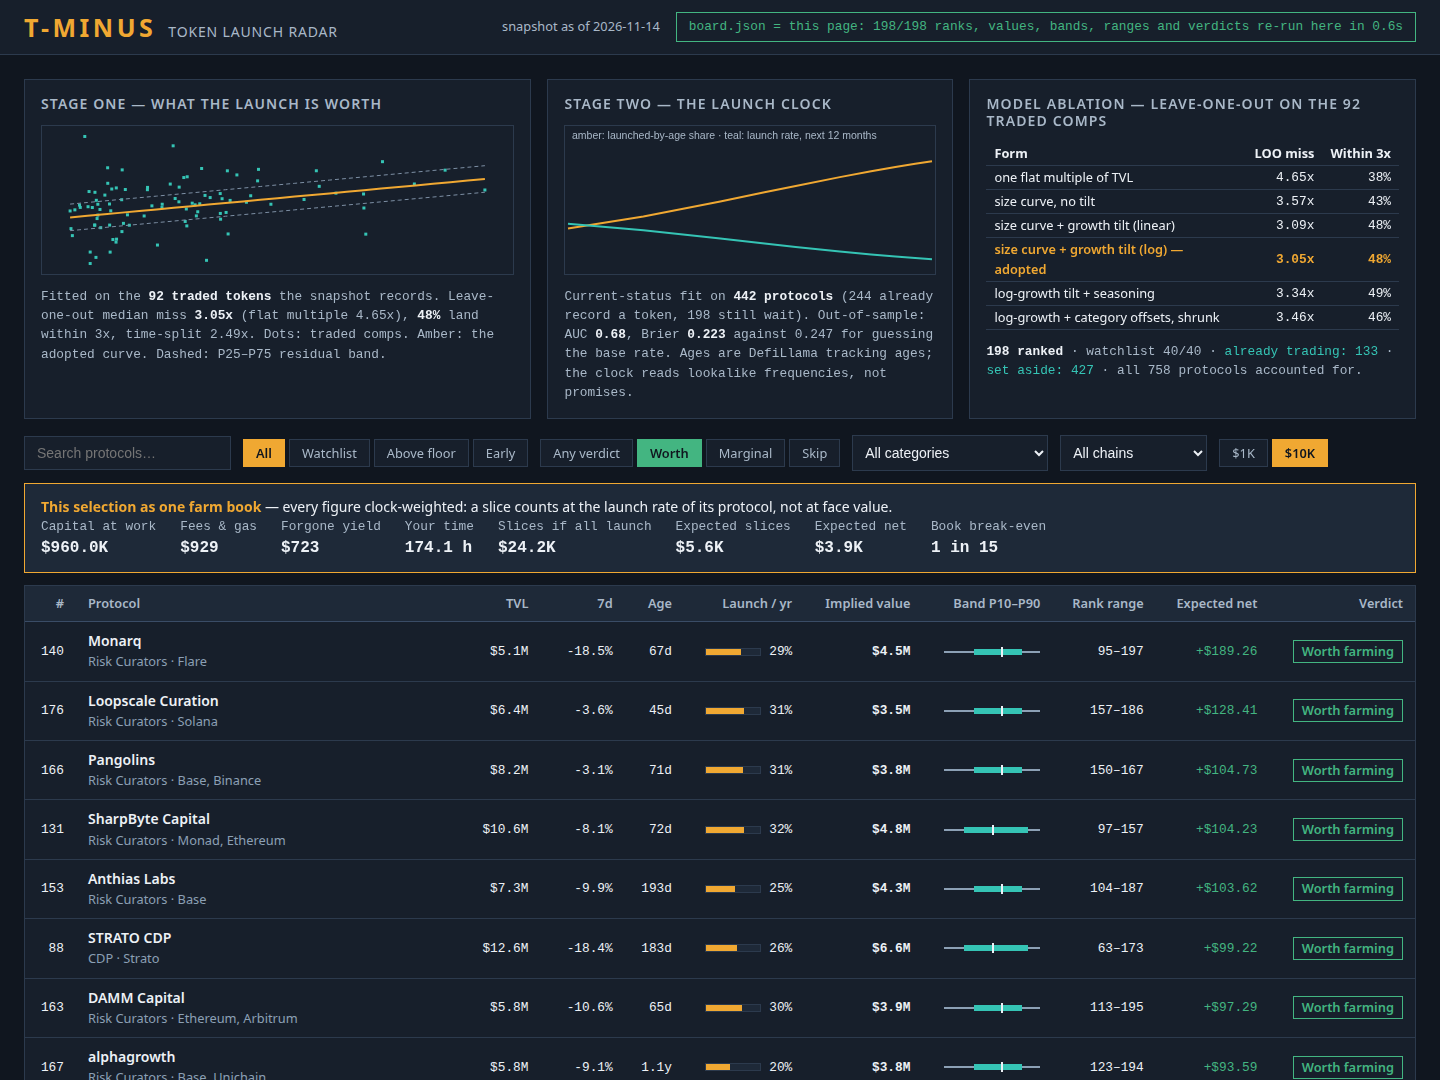
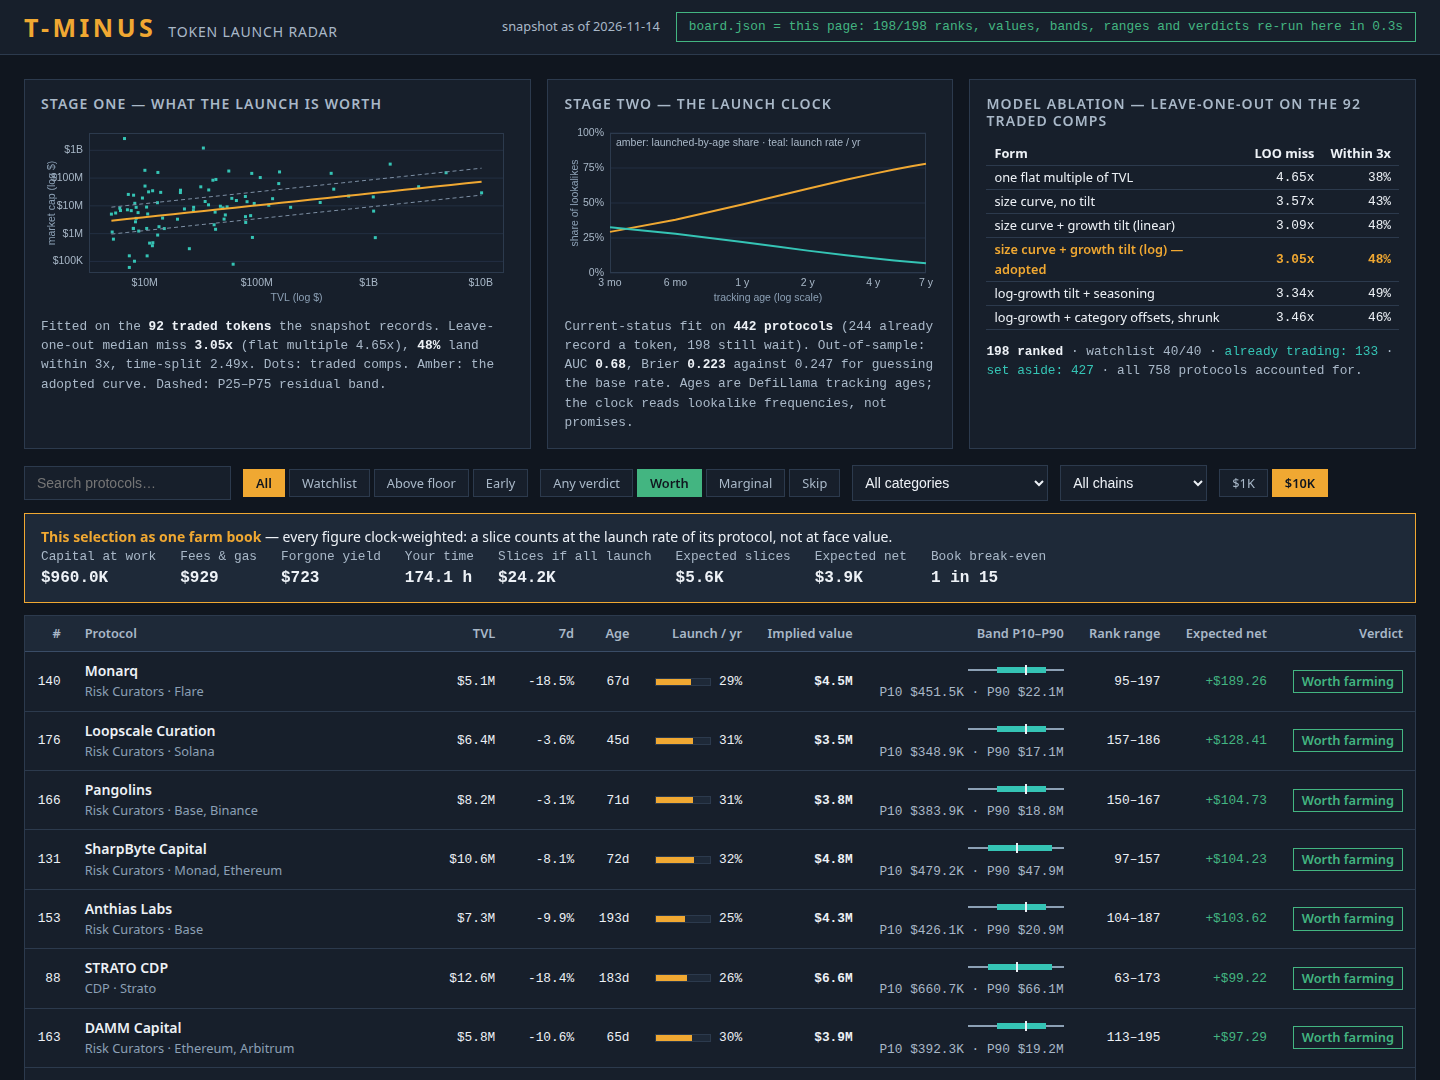
Legibility round: axes on both charts, numeric band values on the board
Criterion-5 fix only — no model, data or verdict changes:
- drawFit/drawClock: labelled axes (decade ticks in dollars and a rotated
  'market cap (log $)' title; percent ticks, age ticks 3mo-7y and a rotated
  'share of lookalikes' title), faint gridlines, taller canvases (180px).
- Board band cell: the P10-P90 glyph now carries printed 'P10 $x - P90 $y'
  values under it and a full-quartile title; hazard bar gains a title.
- CSS: .bandnums rule; pressed Skip chip takes dark text on salmon
  (2.8:1 -> 5.7:1). Every text pairing verified >= 4.5:1 numerically.
- Screenshots re-captured from the rebuilt page (chip 198/198).
board.json and data.js are byte-identical to the previous commit's build;
two runs of main.ts still write identical bytes; gate re-implementation
passes all rows.

diff --git a/dashboard/app.js b/dashboard/app.js
@@ -8,6 +8,7 @@ const $ = (id) => document.getElementById(id);
 const esc = (s) => String(s ?? '').replace(/[&<>"']/g, (c) => ({ '&': '&amp;', '<': '&lt;', '>': '&gt;', '"': '&quot;', "'": '&#39;' }[c]));
 const fmt$ = (v) => v >= 1e9 ? '$' + (v / 1e9).toFixed(2) + 'B' : v >= 1e6 ? '$' + (v / 1e6).toFixed(1) + 'M' : v >= 1e3 ? '$' + (v / 1e3).toFixed(1) + 'K' : '$' + Math.round(v);
 const fmtN = (v, d = 2) => (v < 0 ? '-' : '') + Math.abs(v).toFixed(d);
+const fmtDec = (logv) => { const v = 10 ** logv; return v >= 1e9 ? '$' + (v / 1e9) + 'B' : v >= 1e6 ? '$' + (v / 1e6) + 'M' : '$' + (v / 1e3) + 'K'; };
 
 /* ---------- the model, mirrored from lib/model.ts ---------- */
 const UNKNOWN_AGE = 365;
@@ -118,7 +119,7 @@ function filtered() {
 function bandGlyph(r) {
   const lo = Math.log10(r.band[0]), hi = Math.log10(r.band[3]), span = Math.max(hi - lo, 1e-9);
   const px = (v) => ((Math.log10(v) - lo) / span * 96).toFixed(1);
-  return `<span class="bandg"><span class="w" style="left:0;width:96px"></span><span class="b" style="left:${px(r.band[1])}px;width:${Math.max(2, px(r.band[2]) - px(r.band[1]))}px"></span><span class="m" style="left:${px(r.implied_value_usd)}px"></span></span>`;
+  return `<span class="bandg" title="P10 ${fmt$(r.band[0])} · P25 ${fmt$(r.band[1])} · P75 ${fmt$(r.band[2])} · P90 ${fmt$(r.band[3])}"><span class="w" style="left:0;width:96px"></span><span class="b" style="left:${px(r.band[1])}px;width:${Math.max(2, px(r.band[2]) - px(r.band[1]))}px"></span><span class="m" style="left:${px(r.implied_value_usd)}px"></span></span><span class="bandnums">P10 ${fmt$(r.band[0])} · P90 ${fmt$(r.band[3])}</span>`;
 }
 function renderBoard() {
   const rows = filtered(), dep = String(state.dep);
@@ -127,7 +128,7 @@ function renderBoard() {
     <td class="left"><a class="pname" href="#/p/${esc(r.slug)}">${esc(r.name)}</a><br><span class="psub">${esc(r.category ?? 'Uncategorised')} · ${esc(r.chains.slice(0, 2).join(', ') || '—')}${r.watchlist ? ' · watchlist' : ''}</span></td>
     <td>${fmt$(r.tvl_usd)}</td><td>${r.change_7d === null ? '—' : (r.change_7d >= 0 ? '+' : '') + r.change_7d.toFixed(1) + '%'}</td>
     <td>${r.age_days === null ? '—' : r.age_days >= 365 ? (r.age_days / 365).toFixed(1) + 'y' : r.age_days + 'd'}</td>
-    <td><span class="hzbar"><i style="width:${Math.min(100, r.clock.hazard12 * 220)}%"></i></span>${Math.round(r.clock.hazard12 * 100)}%</td>
+    <td><span class="hzbar" title="launch rate over the next 12 months, from the clock"><i style="width:${Math.min(100, r.clock.hazard12 * 220)}%"></i></span>${Math.round(r.clock.hazard12 * 100)}%</td>
     <td><b>${fmt$(r.implied_value_usd)}</b></td><td>${bandGlyph(r)}</td>
     <td>${r.rank_range[0]}–${r.rank_range[1]}</td>
     <td class="${e.expected_net >= 0 ? 'pos' : 'neg'}">${e.expected_net >= 0 ? '+' : '−'}$${fmtN(Math.abs(e.expected_net))}</td>
@@ -144,25 +145,45 @@ function renderBoard() {
   } else fb.hidden = true;
 }
 function drawFit() {
-  const cv = $('fitChart'), dpr = Math.min(2, window.devicePixelRatio || 1), W = cv.clientWidth, H = 150;
+  const cv = $('fitChart'), dpr = Math.min(2, window.devicePixelRatio || 1), W = cv.clientWidth, H = 180;
   cv.width = W * dpr; cv.height = H * dpr; const g = cv.getContext('2d'); g.scale(dpr, dpr);
   const sc = T.validation.scatter, xs = sc.comps.map(p => p[0]), ys = sc.comps.map(p => p[1]);
   const x0 = Math.min(...xs) - .2, x1 = Math.max(...xs) + .2, y0 = Math.min(...ys) - .2, y1 = Math.max(...ys) + .2;
-  const X = (v) => (v - x0) / (x1 - x0) * (W - 8) + 4, Y = (v) => H - 6 - (v - y0) / (y1 - y0) * (H - 12);
-  g.strokeStyle = '#2C3A4D'; g.strokeRect(0.5, 0.5, W - 1, H - 1);
+  // axes first: faint gridlines and labelled decade ticks on both log scales,
+  // so the plot reads on its own — market cap against TVL, in dollars.
+  const L = 48, R = 10, Tp = 8, B = 32, pw = W - L - R, ph = H - Tp - B;
+  const X = (v) => L + (v - x0) / (x1 - x0) * pw, Y = (v) => Tp + ph - (v - y0) / (y1 - y0) * ph;
+  g.font = '10.5px sans-serif';
+  g.strokeStyle = '#232F42'; g.fillStyle = '#A9B8C8'; g.textAlign = 'right'; g.textBaseline = 'middle';
+  for (let d = Math.ceil(y0); d <= Math.floor(y1); d++) { const y = Y(d); g.beginPath(); g.moveTo(L, y); g.lineTo(W - R, y); g.stroke(); g.fillText(fmtDec(d), L - 6, y); }
+  g.textAlign = 'center'; g.textBaseline = 'top';
+  for (let d = Math.ceil(x0); d <= Math.floor(x1); d++) g.fillText(fmtDec(d), X(d), Tp + ph + 5);
+  g.strokeStyle = '#2C3A4D'; g.strokeRect(L + .5, Tp + .5, pw - 1, ph - 1);
   g.fillStyle = '#35C4B5'; for (const [x, y] of sc.comps) { g.fillRect(X(x) - 1.5, Y(y) - 1.5, 3, 3); }
   g.strokeStyle = '#7E90A5'; g.setLineDash([4, 3]); g.beginPath(); sc.band.forEach(([x, , hi], i) => i ? g.lineTo(X(x), Y(hi)) : g.moveTo(X(x), Y(hi))); g.stroke();
   g.beginPath(); sc.band.forEach(([x, lo], i) => i ? g.lineTo(X(x), Y(lo)) : g.moveTo(X(x), Y(lo))); g.stroke(); g.setLineDash([]);
   g.strokeStyle = '#F0A832'; g.lineWidth = 2; g.beginPath(); sc.curve.forEach(([x, y], i) => i ? g.lineTo(X(x), Y(y)) : g.moveTo(X(x), Y(y))); g.stroke();
+  g.fillStyle = '#8CA0B5'; g.save(); g.translate(11, Tp + ph / 2); g.rotate(-Math.PI / 2); g.textAlign = 'center'; g.textBaseline = 'middle'; g.fillText('market cap (log $)', 0, 0); g.restore();
+  g.textAlign = 'center'; g.textBaseline = 'bottom'; g.fillText('TVL (log $)', L + pw / 2, H - 2);
 }
 function drawClock() {
-  const cv = $('clockChart'), dpr = Math.min(2, window.devicePixelRatio || 1), W = cv.clientWidth, H = 150;
+  const cv = $('clockChart'), dpr = Math.min(2, window.devicePixelRatio || 1), W = cv.clientWidth, H = 180;
   cv.width = W * dpr; cv.height = H * dpr; const g = cv.getContext('2d'); g.scale(dpr, dpr);
-  const pts = T.clock.curve, X = (a) => 4 + Math.log10(a / 90) / Math.log10(2555 / 90) * (W - 8), Y = (v) => H - 6 - v * (H - 12);
-  g.strokeStyle = '#2C3A4D'; g.strokeRect(0.5, 0.5, W - 1, H - 1);
+  const pts = T.clock.curve;
+  // axes first: percent ticks up the side, labelled ages along the log time axis.
+  const L = 46, R = 10, Tp = 8, B = 32, pw = W - L - R, ph = H - Tp - B;
+  const X = (a) => L + Math.log10(a / 90) / Math.log10(2555 / 90) * pw, Y = (v) => Tp + ph - v * ph;
+  g.font = '10.5px sans-serif';
+  g.strokeStyle = '#232F42'; g.fillStyle = '#A9B8C8'; g.textAlign = 'right'; g.textBaseline = 'middle';
+  for (const t of [0, .25, .5, .75, 1]) { const y = Y(t); g.beginPath(); g.moveTo(L, y); g.lineTo(W - R, y); g.stroke(); g.fillText(Math.round(t * 100) + '%', L - 6, y); }
+  g.textAlign = 'center'; g.textBaseline = 'top';
+  for (const [a, lab] of [[90, '3 mo'], [180, '6 mo'], [365, '1 y'], [730, '2 y'], [1460, '4 y'], [2555, '7 y']]) g.fillText(lab, X(a), Tp + ph + 5);
+  g.strokeStyle = '#2C3A4D'; g.strokeRect(L + .5, Tp + .5, pw - 1, ph - 1);
   g.strokeStyle = '#F0A832'; g.lineWidth = 2; g.beginPath(); pts.forEach((p, i) => i ? g.lineTo(X(p.age), Y(p.f)) : g.moveTo(X(p.age), Y(p.f))); g.stroke();
   g.strokeStyle = '#35C4B5'; g.beginPath(); pts.forEach((p, i) => i ? g.lineTo(X(p.age), Y(p.hazard)) : g.moveTo(X(p.age), Y(p.hazard))); g.stroke();
-  g.fillStyle = '#A9B8C8'; g.font = '10.5px sans-serif'; g.fillText('amber: launched-by-age share · teal: launch rate, next 12 months', 8, 14);
+  g.fillStyle = '#A9B8C8'; g.textAlign = 'left'; g.textBaseline = 'top'; g.fillText('amber: launched-by-age share · teal: launch rate / yr', L + 6, Tp + 5);
+  g.fillStyle = '#8CA0B5'; g.save(); g.translate(11, Tp + ph / 2); g.rotate(-Math.PI / 2); g.textAlign = 'center'; g.textBaseline = 'middle'; g.fillText('share of lookalikes', 0, 0); g.restore();
+  g.textAlign = 'center'; g.textBaseline = 'bottom'; g.fillText('tracking age (log scale)', L + pw / 2, H - 2);
 }
 function renderHero() {
   const v = T.validation, c = T.clock;

diff --git a/dashboard/app.css b/dashboard/app.css
@@ -59,7 +59,7 @@ main{padding:var(--s5);max-width:1560px;margin:0 auto}
 .chips button[aria-pressed=true]{color:var(--bg);background:var(--amber);border-color:var(--amber);font-weight:600}
 .chips button.v-go[aria-pressed=true]{background:var(--go);border-color:var(--go)}
 .chips button.v-warn[aria-pressed=true]{background:var(--warn);border-color:var(--warn)}
-.chips button.v-skip[aria-pressed=true]{background:var(--skip);border-color:var(--skip);color:var(--ink)}
+.chips button.v-skip[aria-pressed=true]{background:var(--skip);border-color:var(--skip);color:var(--bg)}
 
 /* farm book bar */
 .farmbook{border:1px solid var(--amber);background:var(--panel2);padding:var(--s3) var(--s4);margin-bottom:var(--s3);font-size:var(--fs-s)}
@@ -87,6 +87,7 @@ table.board{width:100%;border-collapse:collapse;font-size:var(--fs-xs)}
 .bandg .w{position:absolute;top:4px;height:2px;background:var(--ink3)}
 .bandg .b{position:absolute;top:2px;height:6px;background:var(--teal)}
 .bandg .m{position:absolute;top:0;width:2px;height:10px;background:var(--ink)}
+.bandnums{display:block;margin-top:var(--s1);color:var(--ink2)}
 .verdict{display:inline-block;border:1px solid;padding:1px var(--s2);font-family:var(--sans);font-size:var(--fs-xs);font-weight:600}
 .verdict.go{color:var(--go);border-color:var(--go)}
 .verdict.warn{color:var(--warn);border-color:var(--warn)}

diff --git a/dashboard/index.html b/dashboard/index.html
@@ -18,12 +18,12 @@
     <div class="hero">
       <div class="panel panel-fit">
         <h2>Stage one — what the launch is worth</h2>
-        <canvas id="fitChart" height="150"></canvas>
+        <canvas id="fitChart" height="180"></canvas>
         <p id="fitStats" class="stats"></p>
       </div>
       <div class="panel panel-clock">
         <h2>Stage two — the launch clock</h2>
-        <canvas id="clockChart" height="150"></canvas>
+        <canvas id="clockChart" height="180"></canvas>
         <p id="clockStats" class="stats"></p>
       </div>
       <div class="panel panel-abl">
